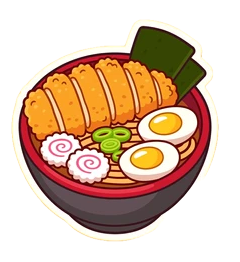
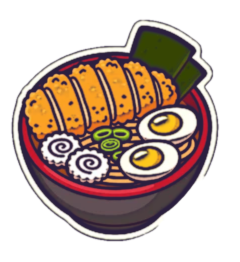
Ramen u Hlasuj!: tmavší linky v jídle a tmavý obrys nálepky

Changed region(s): [[0.0292, 0.0611, 0.9333, 0.9466]]

diff --git a/frontend/src/styles.css b/frontend/src/styles.css
@@ -3675,3 +3675,8 @@ h3 {
     font-size: 19px;
   }
 }
+/* dark sticker outline around the whole ramen picture (the inner lines are baked into the image) */
+.vote-btn img {
+  filter: drop-shadow(2px 0 0 var(--outline)) drop-shadow(-2px 0 0 var(--outline)) drop-shadow(0 2px 0 var(--outline))
+    drop-shadow(0 -2px 0 var(--outline)) drop-shadow(0 5px 0 rgba(43, 31, 63, 0.25));
+}
